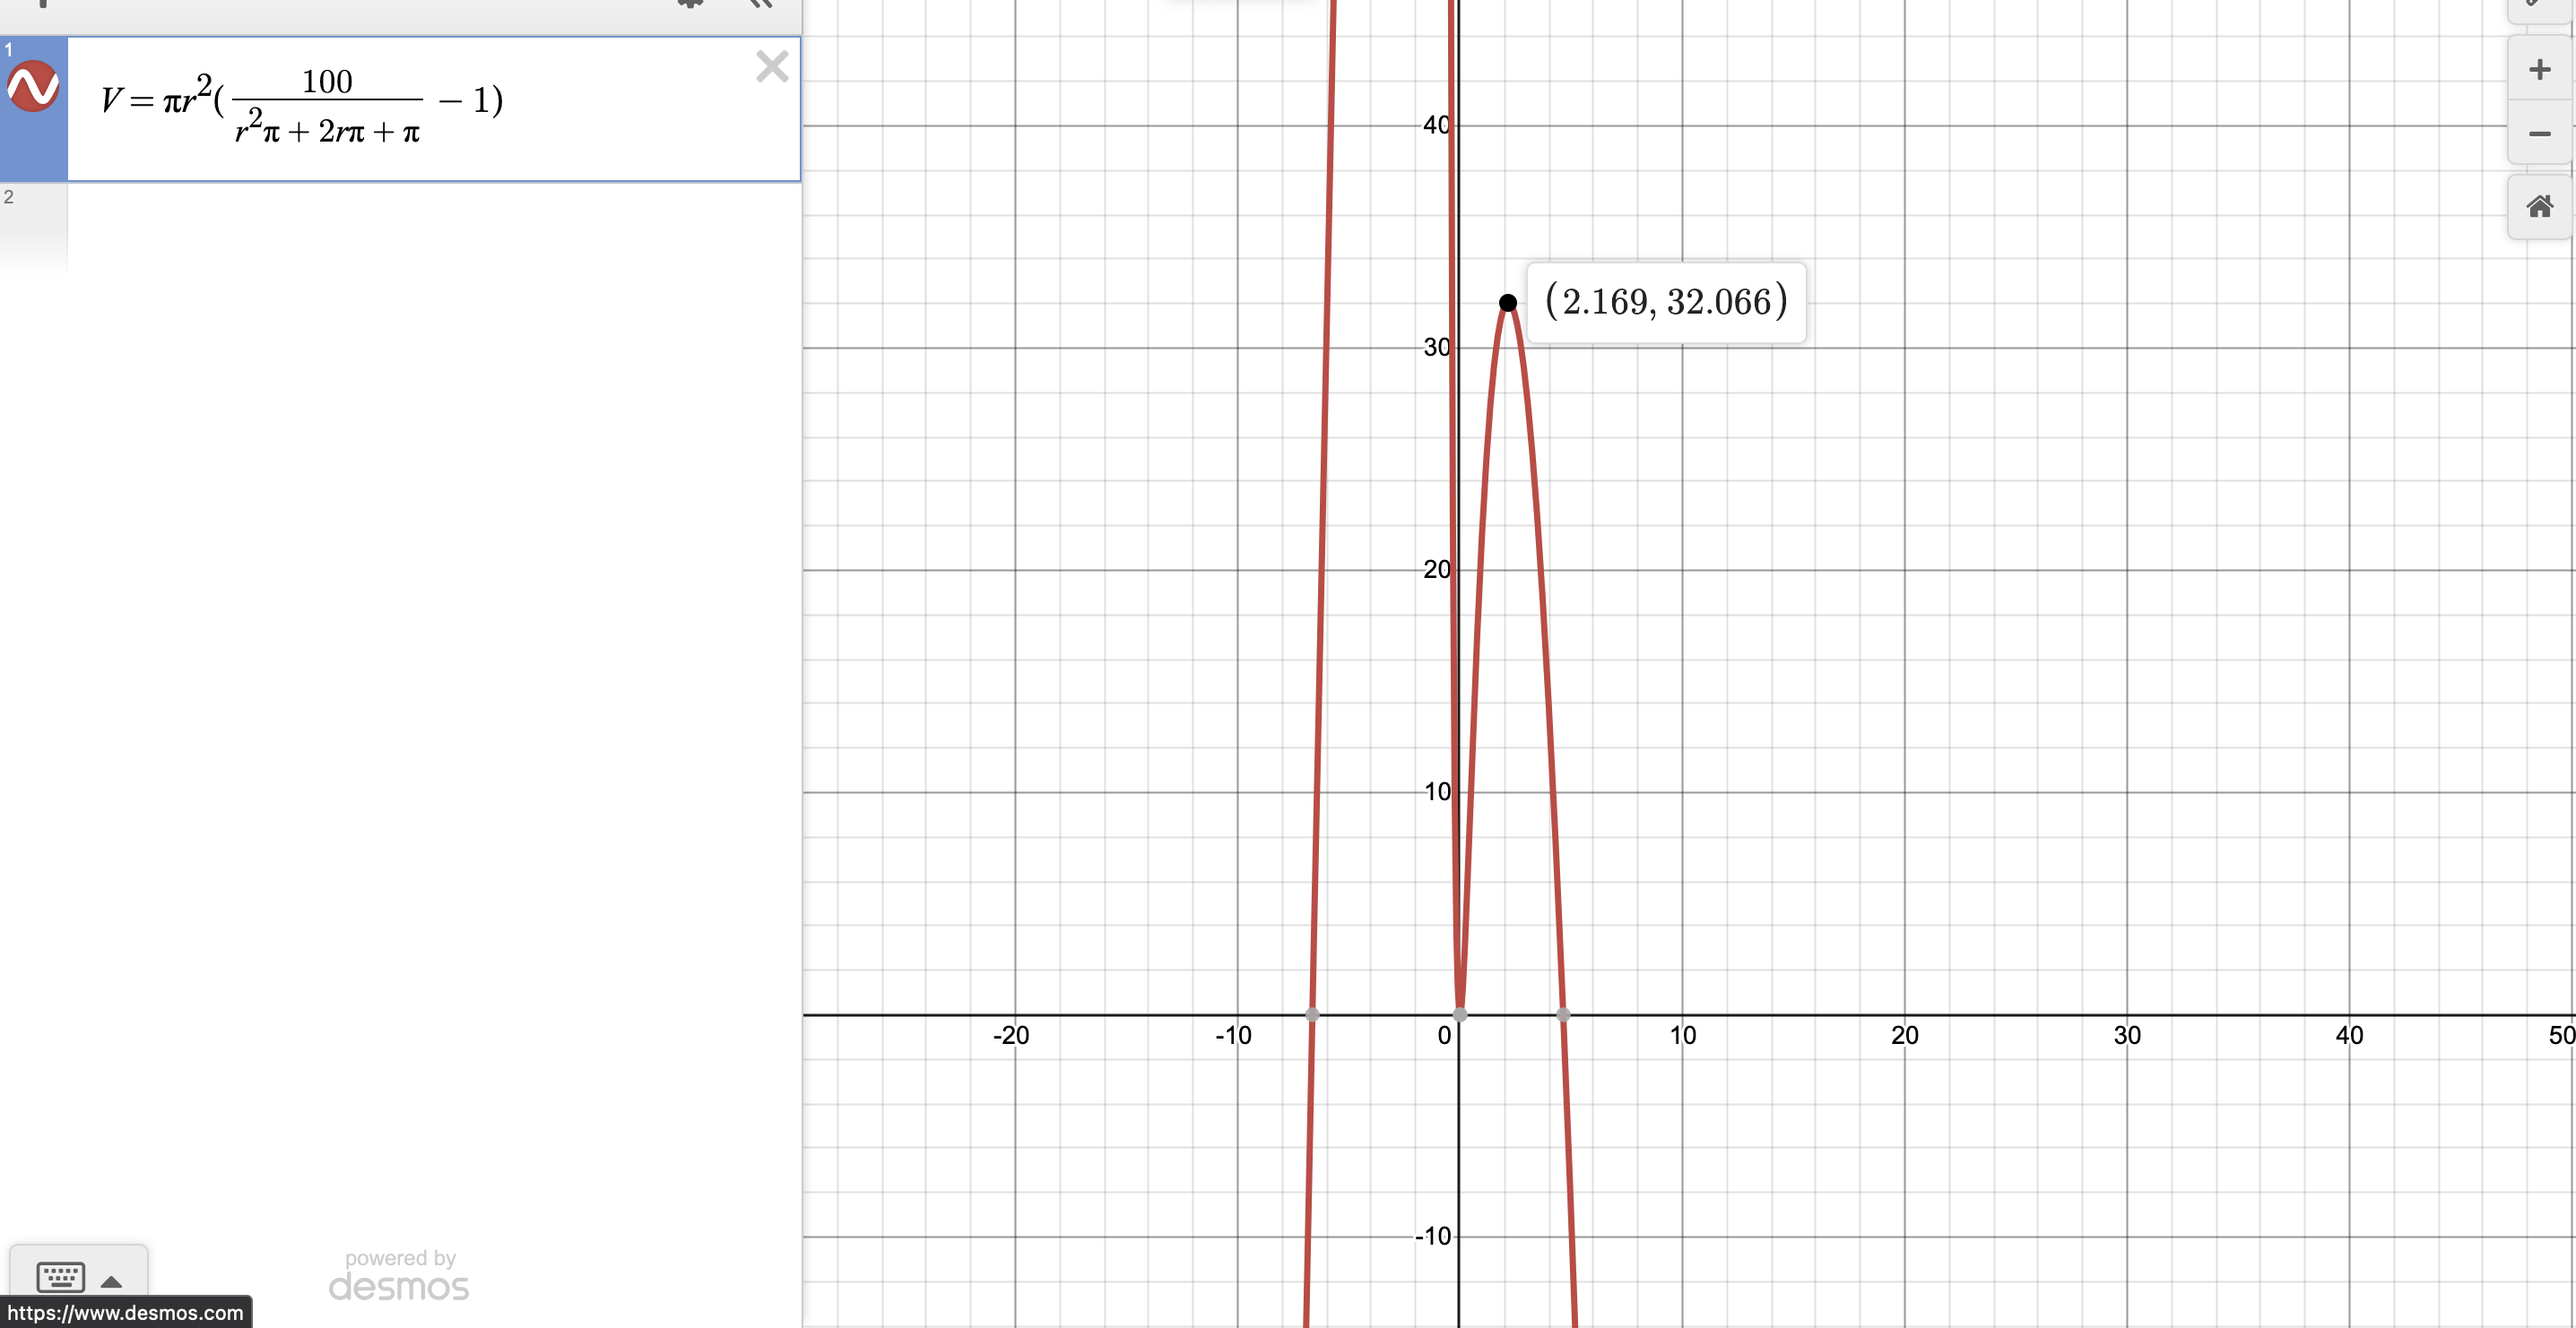
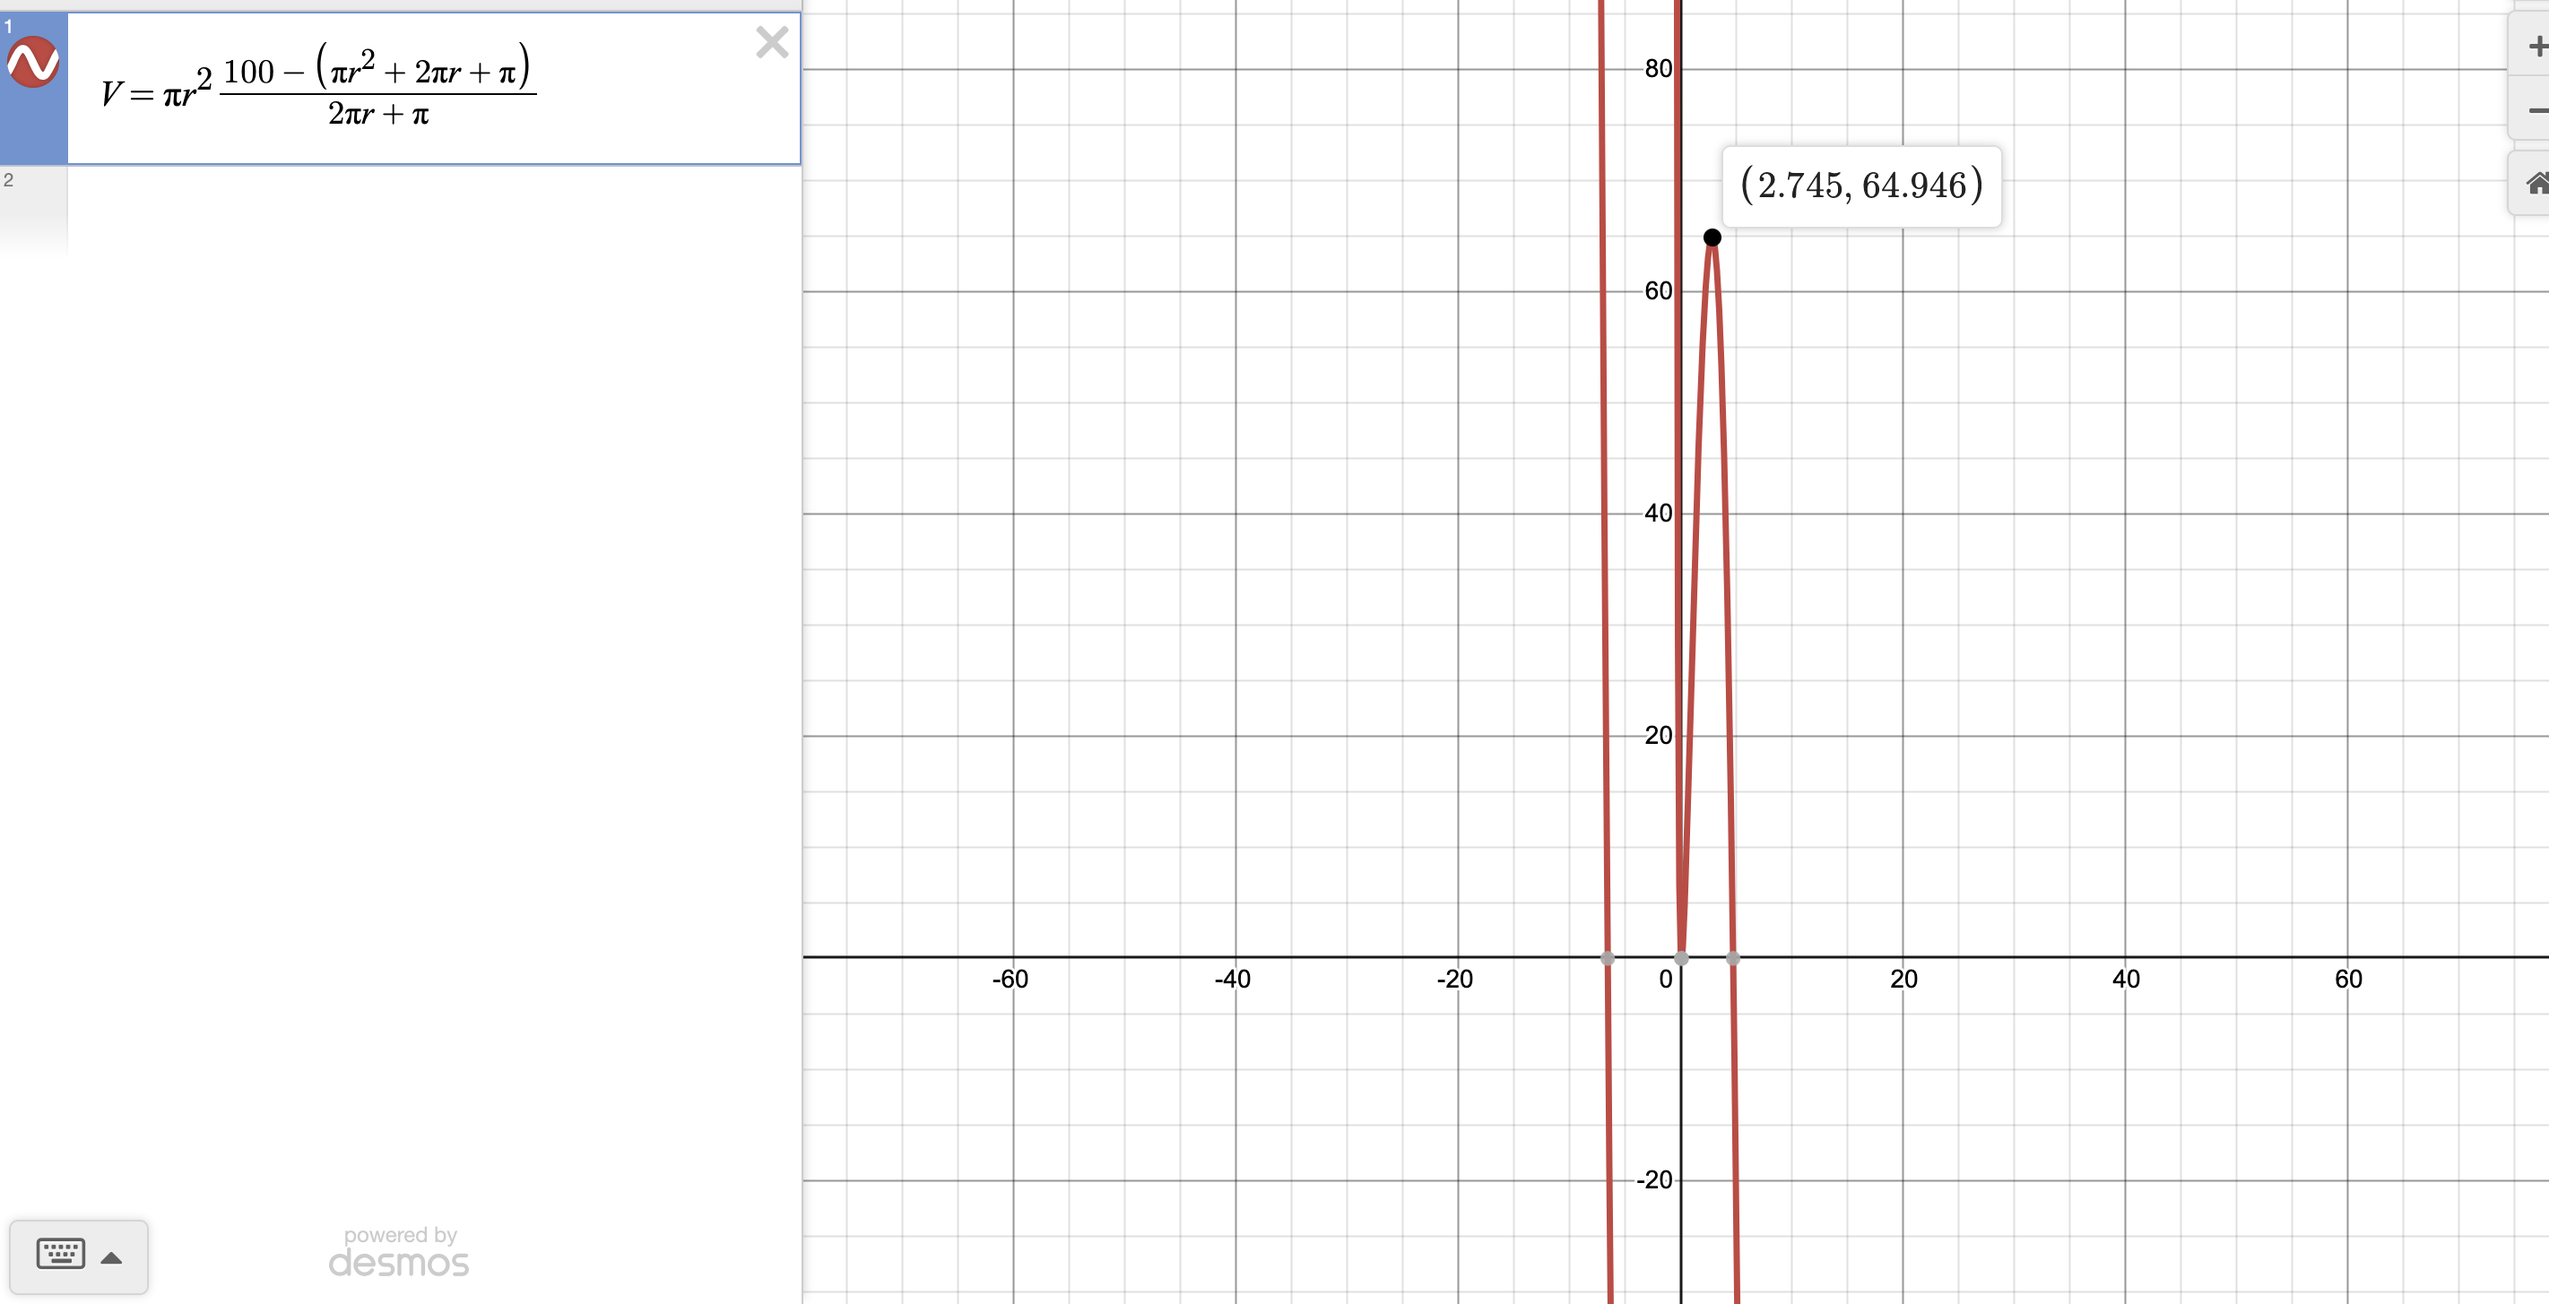
corrections up to 5.3

diff --git a/chapter5/5.4.tex b/chapter5/5.4.tex
@@ -67,10 +67,10 @@ $(3x\times x)+x^2=3x^2+x^2=4x^2$.
 
 \section*{23}
 The ratio of the perimeter to the area of the first field and second field are $\frac{8x}{4x^2}=\frac{2}{x}$ and
-$\frac{10x}{4x^2}=\frac{5}{2x}$, respectively. Because $\frac{5}{2x}>\frac{2}{x}$, the ratio for the second field is greater than that of the first.
-I did not know which one had the lower fencing cost per unit of area.
-I was also not understanding the justification for the efficiency of the package (listed on pg. 328) being the ratio of its surface area to its volume, so we should 
-go over that. 
+$\frac{10x}{4x^2}=\frac{5}{2x}$, respectively. Because $\frac{5}{2x}>\frac{2}{x}$, the ratio for the second field is greater than that of the first. Now, 
+to determine which of the fields has the lower fencing cost per unit area, we need to compare the ratio of the perimeter to the area of each field. This is because 
+fencing cost depends on the perimeter, and we want to know how efficient the perimeter is for the given area, which is the ratio of the perimeter to the area. Thus, because 
+the ratio for the second field is greater than that of the first, it follows that the first field has a lower fencing cost per unit area.
 
 \section*{27}
 \[ \frac{4(x+5)}{x^2}\times\frac{x(x+1)}{2(x+5)}=\frac{4x(x+5)(x+1)}{2x^2(x+5)}=\frac{2(x+1)}{x}=\frac{2x+2}{x} \]
@@ -114,11 +114,11 @@ $\frac{4\pi r^2}{2\pi\frac{7}{3}r^2}=\frac{6}{7}$. The amount of material requir
 the spherical tank would take less material to build.
 
 \section*{53}
-(My answer here is off by the book's by one letter. I cannot find any errors in my answer.)\newline
 We are given a cylinder with a hemisphere on each end. The length of the cylinder is $l$ and the radius of each hemisphere is $r$. Thus the two hemispheres form a sphere with radius $r$. 
-The surface area of a cylinder is $2\pi r(h+r)$, and the surface area of a sphere is $4\pi r^2$. This means that the surface area of the entire shape is 
-$2\pi r(l+r)+4\pi r^2=2\pi r^2+2\pi rl+4\pi r^2=6\pi r^2+2\pi rl$. The volume of the two  hemispheres is $\frac{4}{3}\pi r^3$, and the volume of the cylinder is $\pi r^2l$, meaning the 
+The surface area of a cylinder is $2\pi rl$, and the surface area of a sphere is $4\pi r^2$. This means that the surface area of the entire shape is 
+$2\pi rl+4\pi r^2=$. The volume of the two  hemispheres is $\frac{4}{3}\pi r^3$, and the volume of the cylinder is $\pi r^2l$, meaning the 
 volume of the total shape is $\frac{4}{3}\pi r^3+\pi r^2l$. Thus the ratio of the surface area to the volume of the container is:
-\[ \frac{6\pi r^2+2\pi rl}{\frac{4}{3}\pi r^3+\pi r^2l}=\frac{2\pi r(3r+l)}{\frac{1}{3}\pi r^2(4r+3l)}=\frac{6(3r+l)}{r(4r+3l)} \]
+\[ \frac{4\pi r^2+2\pi rl}{\frac{4}{3}\pi r^3+\pi r^2l}=\frac{3(4\pi r^2+2\pi rl)}{3(\frac{4}{3}\pi r^3+\pi r^2l)} \]
+\[ =\frac{6(2r+l)}{r(4r+3l)} \]
 
 \end{document}

diff --git a/chapter5/5.3.tex b/chapter5/5.3.tex
@@ -84,7 +84,7 @@ Consider some rational function $f(x)=\frac{p(x)}{q(x)}$ where $p(x)$ and $q(x)$
 and such that $m$ and $n$ are the degrees 
 of $p(x)$ and $q(x)$, respectively. If $n<m$, we know that the graph's end behavior is the same as the graph of $y=\frac{a_m}{b_n}x^{m-n}$ where 
 $a_m$ and $b_n$ are the leading coefficients of $p(x)$ and $q(x)$, respectively. Thus one example of a function whose graph has the same end behavior as the graph 
-of $y=3x^2$ is $f(x)=\frac{9x^4+3}{3x^2}$. Another example is $f(x)=\frac{21x^6-3x+2}{7x^4}$.
+of $y=3x^2$ is $f(x)=\frac{9x^4+4}{3x^2}$. Another example is $f(x)=\frac{21x^6-3x+2}{7x^4}$.
 
 \section*{28}
 We know that $2=\frac{a}{0^2+b}$, meaning $a=2b$, and $1=\frac{a}{1^2+b}$. Thus
@@ -96,17 +96,18 @@ We know that $-1=\frac{a}{9+b}$, meaning $a=-9-b$, and $-6=\frac{a}{4+b}$. Thus
 
 \section*{36}
 (a): We know that the volume of a cylinder is given by $V=\pi r^2h$. Now, we are also given that the tank must be built using $100$ cubic feet of concrete. Thus we can 
-write $h$ in terms of $r$: \[ 100=\pi (r+1)^2(h+1) \] \[ 100=\pi (r^2+2r+1)(h+1) \] \[ h+1=\frac{100}{r^2\pi +2r\pi +\pi} \]
-\[ h=\frac{100}{r^2\pi +2r\pi +\pi}-1 \]
+write $h$ in terms of $r$: \[ 100=\pi (r+1)^2(h+1)-\pi r^2h \] \[ 100=\pi (r^2+2r+1)(h+1)-\pi r^2h \]
+\[ =\pi r^2h+2\pi rh+\pi h+\pi r^2+2\pi r+\pi-\pi r^2h=\pi r^2+2\pi rh+2\pi r+\pi h+\pi \]
+\[ =\pi r^2+2\pi r+h(2\pi r+\pi)+\pi \]
+meaning \[ h(2\pi r+\pi)=100-(\pi r^2+2\pi r+\pi) \] \[ h=\dfrac{100-(\pi r^2+2\pi r+\pi)}{2\pi r+\pi} \]
 
 
-(b): We know that the water the tank can hold is given by $\pi r^2h$. Thus we can use the equation for $h$ in part (a) to write:
-\[ V=\pi r^2h=\pi r^2(\frac{100}{r^2\pi +2r\pi +\pi}-1) \] 
+(b): We know that the amount of water that the tank can hold is
+\[ V=\pi r^2h=\pi r^2\left(\dfrac{100-(\pi r^2+2\pi r+\pi)}{2\pi r+\pi}\right) \]
 
 
-(c): \newline \includegraphics[width = 4in, height = 4in]{36}\newline 
-From the graph, can see that the point $(2.169,32.066)$ is when the capacity is maximized. Points where $x\le 0$ do not make sense, as the radius must be a positive measurement. 
-Thus the values for $r$ and $h$ that maximize the capacity of the tank are $2.169$ and
-\[ \frac{100}{(2.169)^2\pi +2(2.169)\pi +\pi}-1\approx 2.1696 \] respectively.
+(c): \newline \includegraphics[width = 4in, height = 4in]{36}\newline
+From the graph, we can see that the maximum volume of about 64.946 cubic feet can be achieved with a radius of about 2.745 feet and a height of about 
+$\dfrac{100-(\pi (2.745)^2+2\pi 2.745+\pi)}{2\pi 2.745+\pi}\approx 2.744$ feet.
 
 \end{document}

diff --git a/chapter5/5.1.tex b/chapter5/5.1.tex
@@ -59,8 +59,7 @@ C
 \[ -7=\frac{a}{\frac{5}{3}} \] \[ a=-\frac{35}{3} \] meaning, when $x=3$, \[ y=-\frac{\frac{35}{3}}{3}=-\frac{35}{9} \]
 
 \section*{23}
-The set of data pairs here shows inverse variation. This is because the product of the two points in each data pair is approximately equal to 84. The only one not equal to 84 is 
-$(8,10.5)$, which is equal to 85. Thus we can model this set of pairs with the function $y=\frac{84}{x}$.
+The set of data pairs here shows inverse variation. This is because the product of the two points in each data pair is equal to 85. 
 
 \section*{29}
 \[ 75=a\times 5\times -3 \] \[ a=-5 \] meaning, when $x=-4$ and $y=5$, \[ z=-15\times -4\times 5=300 \]
@@ -72,7 +71,7 @@ A
 \[ x=\frac{ay}{z} \]
 
 \section*{32}
-\[ y=ax\sqrt{z} \]
+\[ y=axz^2 \]
 
 \section*{33}
 \[ w=\frac{axz}{y} \]
@@ -83,8 +82,8 @@ the answer is $z=\frac{axy^3}{\sqrt{w}}$.
 
 \section*{35}
 Let $f(x)$ and $g(x)$ be a direct variation function and an inverse variation function, repsectively, and $h(x)$ be their sum. Thus:
-\[ h(x)=\frac{a_1}{x}+\frac{a_2}{x} \] for $a_1,a_2$ the constants of variation for $f(x)$ and $g(x)$, respectively. To make $h(2)=5$, we could let $a_1=4$ and $a_2=6$, meaning:
-\[ h(2)=\frac{4}{2}+\frac{6}{2}=5 \]
+\[ h(x)=a_1x+\frac{a_2}{x} \] for $a_1$ and $a_2$ the constants of variation for $f(x)$ and $g(x)$, respectively. Thus we would have 
+$5=2a_1+\frac{a_2}{2}$. One possibility is taking $a_1$ to be $2$ and $a_2$ to be $2$, meaning $f(x)=2x$ and $g(x)=\frac{2}{x}$.
 
 \section*{36}
 Suppose $x$ varies inversely with $y$ and $y$ varies inversely with $z$. Thus:
@@ -106,7 +105,7 @@ in particular when $a=\frac{a_1}{a_2}$.
 \[ 3.53\times 10^{22}=\frac{a\times 5.98\times 10^{24}\times 1.99\times 10^{30}}{(1.50\times 10^{11})^2} \]
 \[ 3.53\times 10^{22}=\frac{11.9002a\times 10^{54}}{2.25\times 10^{22}} \]
 \[ 3.53\times 10^{22}=\frac{11.9002}{2.25}a\times 10^{32} \]
-\[ a\approx 0.5672\times 10^{-10} \]
+\[ a\approx 0.6674\times 10^{-10} \]
 
 
 (c): Because the product of the two masses is in the numerator of the expression in part (a), the gravitational force increases as the masses of the two objects increases and the 
